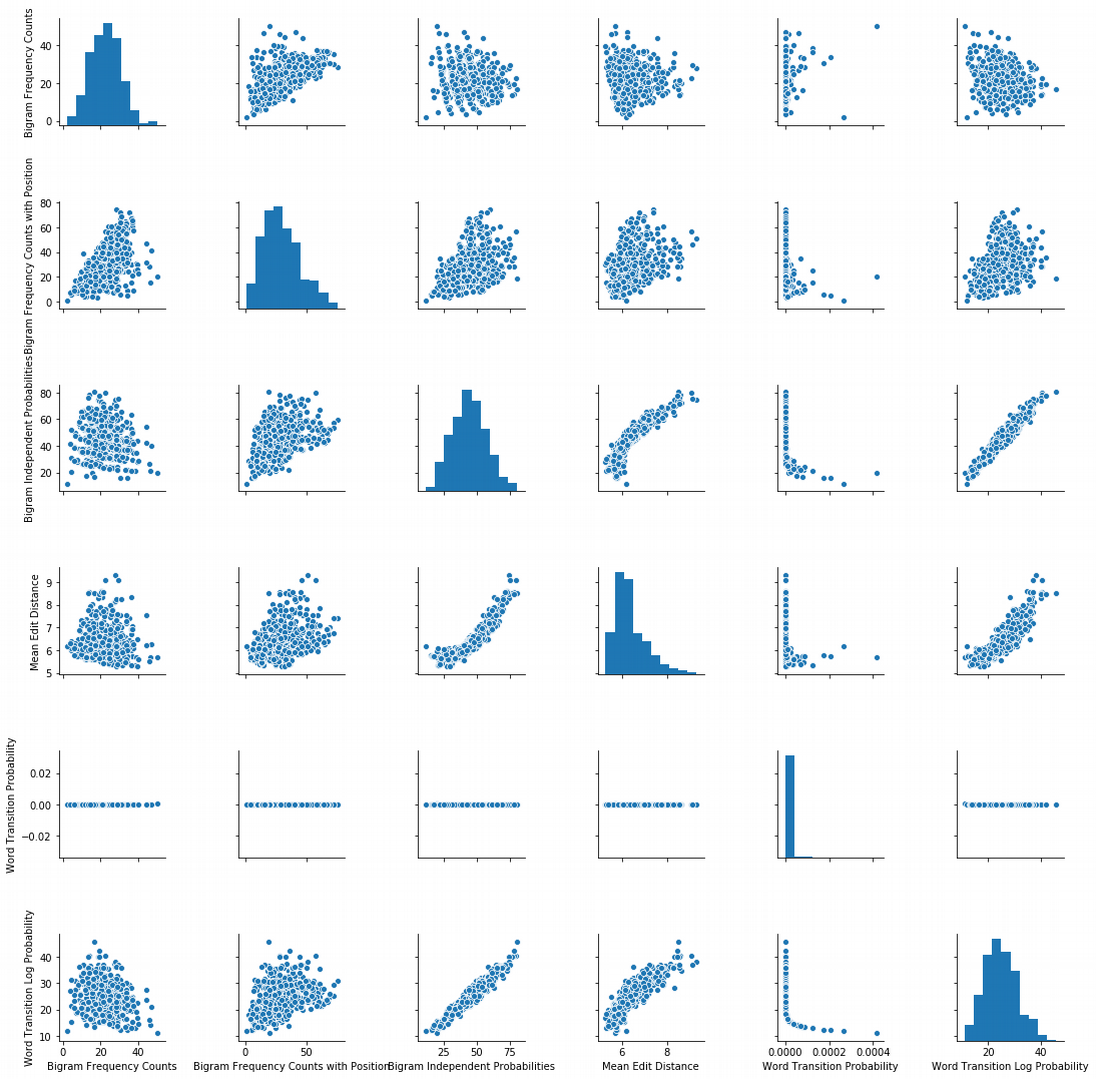
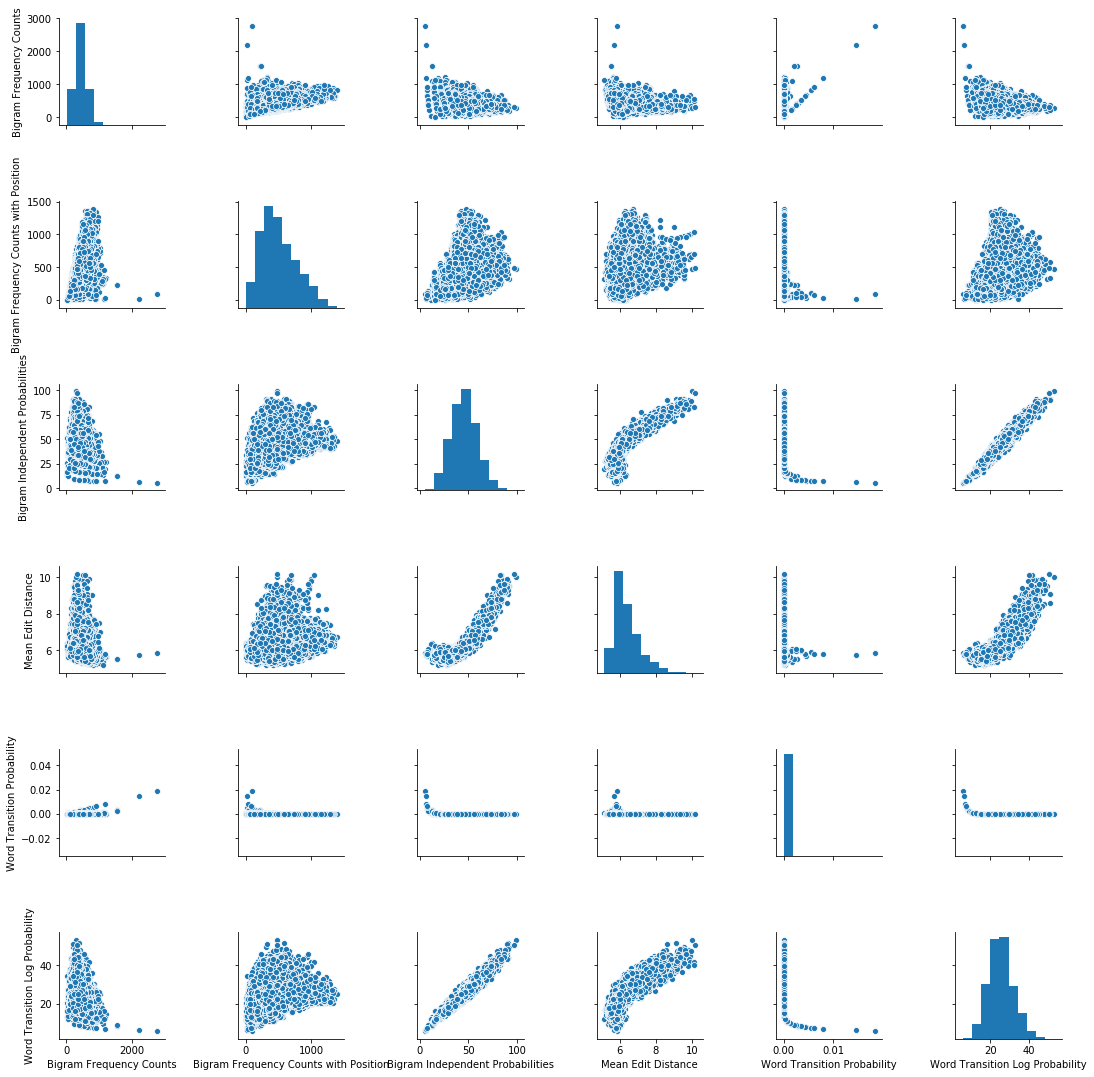
Updating figures

diff --git a/letter_stats.py b/letter_stats.py
@@ -139,7 +139,7 @@ words = list(df.iloc[:, 0])
 random.shuffle(words)
 
 
-words = [i for i in words if type(i) == str][:500]
+words = [i for i in words if type(i) == str][:10000]
 
 
 total_string = ' '.join(words)
@@ -184,7 +184,7 @@ correlation_matrix_pearson = total_data_struct.corr(method='pearson')
 sns.pairplot(total_data_struct)
 
 
-visual_data = total_data_struct.drop(columns='Word Transition Probability','Bigram Independent Probabilities', 'Bigram Frequency Counts')
+visual_data = total_data_struct.drop(columns=['Word Transition Probability','Bigram Independent Probabilities', 'Bigram Frequency Counts'])
 
 grid = sns.PairGrid(visual_data)
 sns.set_palette("pastel")
